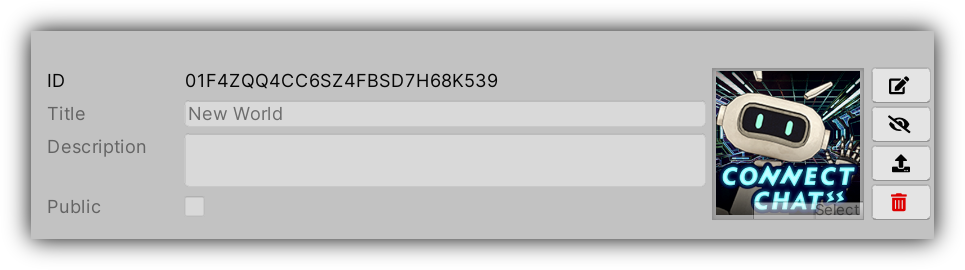
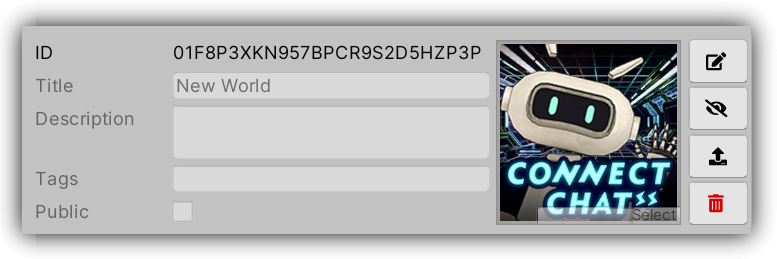
update docs

diff --git a/Documentation~/Japanese/04-creating-a-world.md b/Documentation~/Japanese/04-creating-a-world.md
@@ -1,0 +1,98 @@
+# はじめてのワールド作成
+
+新しいワールドの作成は非常に簡単です：
+
+1. ワールドに使用したいコンテンツが入ったシーンを作成し、セットアップします。
+2. [DMM VR Connect](https://connect.vrlab.dmm.com) アカウントにログインします。
+3. ワールド一覧に新しいワールドを追加してください。
+4. シーンをアップロードします。
+5. ワールドをパブリッシュします。
+
+## ステップ1：シーンの作成とセットアップ
+
+新しいシーンを作成し、ワールドに使いたいコンテンツを配置してください。
+
+![シーンを作成とコンテンツの配置](../images/scene-create.png)
+
+次に、空白の「_GameObject_ and attach the _CC World_」コンポーネントを追加します。
+
+![CCワールドコンポーネントの追加](../images/scene-add-cc-world.png)
+
+空白の「_GameObjects_:」を追加することで、シーンにスポーンポイントを追加します。
+
+![スポーンポイントの追加](../images/scene-create-spawn-point.png)
+
+そして「_CC World_」のスポーンポイント一覧に追加してください。
+
+![CCワールドのスポーンポイント一覧への追加](../images/scene-add-spawn-point.png)
+
+＊シーンに対応していないUnityのコンポーネント・シェーダーがあるのでご注意ください。対応コンポーネント一覧は [こちら](05-supported-components.md#対応コンポーネント) 、対応シェーダー一覧は [こちら](05-supported-components.md#対応シェーダー) からご確認いただけます。
+
+## ステップ2：DMM VR Connectへのログイン
+
+1. 「_Connect Chat_」メニューよりコントロールパネルを開きます。
+
+    ![コントロールパネル](../images/control-panel-open.png)
+
+2. コントロールパネルのウィンドウが開いたら、「_Login_」ボタンを押してご利用の [DMM VR Connect](https://connect.vrlab.dmm.com) アカウントにログインしてください。
+
+    ![DMM VR Connectへのログイン](../images/control-panel-login.png)
+
+3. ログイン後、開いたブラウザウィンドウの「_Confirm_」ボタンを押してUnityに戻ってください。
+
+    ![デバイス承認](../images/device-confirmation.png)
+
+4. ログイン完了後、コントロールパネルにアップロードしたワールドの一覧が現れます。
+
+    ![空白のワールド一覧](../images/empty-world-list.png)
+
+コントロールパネルはワールド一覧に加え、ユーザーにとって有益な情報や操作がいくつかあります。
+
+![コントロールパネルの見方](../images/control-panel-anatomy.png)
+
+## ステップ3：新規ワールドの追加
+
+「+」ボタンを押す事によって新しいワールドを追加してください。するとワールド一覧が更新され、新規ワールドが一覧から見れるようになります。
+
+![ワールド追加](../images/world-entry.png)
+
+**ID:** ワールドの内部ID
+
+**Title:** ワールド選択画面に現れるワールドの名称
+
+**Description:** ワールドの説明文
+
+**Public:** ワールドが誰にでも利用できるか、あなた自身にしか使えないかの表記（プライベートに設定していても同じインスタンスに他のユーザーを招待することは可能です）
+
+右記の画像はワールドのサムネイルです。サムネイルは256 x 256のテクスチャで、ワールド選択画面にてワールドの名称と一緒に表示されます。
+
+画面の右端には四つのアイコンがあります:
+
+![](../images/world-edit-icon.png) **Edit:** ワールドの詳細を修正できるモードをオン・オフできます。
+
+![](../images/world-publish-icon.png) **Publish:** ワールドをパブリッシュし、ワールド選択画面から選べるようにします。
+
+![](../images/world-upload-icon.png) **Build & Upload:** 現在選択されているシーンでワールドのアセットバンドルをビルドし、アップロードします。
+
+![](../images/world-delete-icon.png) **Delete:** ワールドを削除します (一度削除したワールドは復元できません)。
+
+### ワールド詳細の修正
+
+「_Edit_」をクリックして詳細を修正したいワールドの「_edit mode_」をオンにしてください。
+
+このモードからワールドの名称と説明文の修正、サムネイルの変更、ビジビリティのオン・オフが行えます。
+
+![ワールド詳細の修正](../images/world-edit.png)
+
+カスタムサムネイルは256 x 256ピクセルで下記の設定でインポートしてください。
+
+![サムネネイルのインポート設定](../images/world-thumbnail-import-settings.png)
+
+## ステップ4：アップロード
+
+ワールドのビルドとアップロードを行うには、ビルドボタンをクリックしてください。アップロードが完了次第、ダイアログが出現します。
+アップロードがうまくいかない場合（シーンに非対応コンポーネントを利用していた、等）。コンソールのエラーメッセージを確認してください。
+
+## ステップ5：ワールドのパブリッシュ
+
+ワールド詳細の設定が終わり、シーンのアップロードが完了すれば、あとはパブリッシュボタンを押す事によってあなたのワールドをConnect Chatで公開できます。

diff --git a/Documentation~/English/04-creating-a-world.md b/Documentation~/English/04-creating-a-world.md
@@ -12,19 +12,19 @@ Creating a new world is a simple process:
 
 Create a new scene and populate it with the content of your world.
 
-![Create and populate your scene.](images/scene-create.png)
+![Create and populate your scene.](../images/scene-create.png)
 
 When you are done, add an empty _GameObject_ and attach the _CC World_ component to it.
 
-![Add the CC World component.](images/scene-add-cc-world.png)
+![Add the CC World component.](../images/scene-add-cc-world.png)
 
 Add spawn points to the scene by creating empty _GameObjects_:
 
-![Create a spawn point.](images/scene-create-spawn-point.png)
+![Create a spawn point.](../images/scene-create-spawn-point.png)
 
 and add them to the _CC World_'s spawn point list.
 
-![Add the spawn point to CC World.](images/scene-add-spawn-point.png)
+![Add the spawn point to CC World.](../images/scene-add-spawn-point.png)
 
 :warning:  Not all Unity components or shaders are usable in the scene: see [here](05-supported-components.md#allowed-components) for the list of allowed components, and [here](05-supported-components.md#allowed-shaders) for the list of allowed shaders.
 
@@ -32,36 +32,43 @@ and add them to the _CC World_'s spawn point list.
 
 1. Open the control panel using the _Connect Chat_ menu.
 
-    ![Open the Control Panel](images/control-panel-open.png)
+    ![Open the Control Panel](../images/control-panel-open.png)
 
-2. Once the control panel window appears, press the _Login_ button to login into your [VR Connect] (https://connect.vrlab.dmm.com) account.
+2. The first time you open the control panel, the terms of services will be shown.
+   Using the control panel requires accepting the terms of service.
 
-    ![Login into Connect](images/control-panel-login.png)
+    ![ToS](../images/tos.png)
 
-3. Press the _Confirm_ button in the browser window that opened and return to Unity.
+3. Once the control panel window appears, press the _Login_ button to login into your [VR Connect](https://connect.vrlab.dmm.com) account.
 
-    ![Device Confirmation](images/device-confirmation.png)
+    ![Login into Connect](../images/control-panel-login.png)
 
-4. Once logged in the control panel will show the list of world you have uploaded.
+4. Press the _Confirm_ button in the browser window that opened and return to Unity.
 
-    ![Empty World List](images/empty-world-list.png)
+    ![Device Confirmation](../images/device-confirmation.png)
+
+5. Once logged in the control panel will show the list of world you have uploaded.
+
+    ![Empty World List](../images/empty-world-list.png)
 
 In addition to the world list, the control panel windows show the user information and
 has a few useful controls:
 
-![Control Panel Anatomy](images/control-panel-anatomy.png)
+![Control Panel Anatomy](../images/control-panel-anatomy.png)
 
 ## Step 3 - Adding a New World
 
 Click the `+` button to create a new world; the world list will update and a new world should be added to your list:
 
-![World Entry](images/world-entry.png)
+![World Entry](../images/world-entry.png)
 
 **ID:** The internal id of the world.
 
-**Title:** The name of the world and what is shown in the world selections screen.
+**Title:** The name of the world and what is shown in the world selections screen. Titles must be composed of a maximum of 16 letters or digits.
 
 **Description:** One or two short sentences describing your world.
+
+**Tags:** A list of tags describing your world. A maximum of 8 tags are allowed, each tag composed of a maximum of 16 letters or digits.
 
 **Public:** Shows if the world is usable by everyone or only by you (you will still be able to invite people into one instance).
 
@@ -69,13 +76,13 @@ The image on the right is the world's thumbnail: a 256x256 texture that will be 
 
 On the far right there are four icons:
 
-![](images/world-edit-icon.png) **Edit:** Toggles the edit mode for the world details. 
+![](../images/world-edit-icon.png) **Edit:** Toggles the edit mode for the world details. 
 
-![](images/world-publish-icon.png) **Publish:** Publishes the world and make it available in the World Selection window. 
+![](../images/world-publish-icon.png) **Publish:** Publishes the world and make it available in the World Selection window. 
 
-![](images/world-upload-icon.png) **Build & Upload:** Builds the world asset bundle using the current active scene and uploads it.
+![](../images/world-upload-icon.png) **Build & Upload:** Builds the world asset bundle using the current active scene and uploads it.
 
-![](images/world-delete-icon.png) **Delete:** Deletes the world (this operation cannot be undone).
+![](../images/world-delete-icon.png) **Delete:** Deletes the world (this operation cannot be undone).
 
 ### Editing your World Details
 
@@ -83,11 +90,11 @@ Click the _Edit_ button and toggle the _edit mode_ for your world.
 
 You can now edit the title and description of your world, change its thumbnail, and toggle it's visibility flag.
 
-![Editing the world details.](images/world-edit.png)
+![Editing the world details.](../images/world-edit.png)
 
 Custom thumbnails must be 256 x 256 pixels and be imported with the following settings:
 
-![Thumnbail import settings.](images/world-thumbnail-import-settings.png)
+![Thumbnail import settings.](../images/world-thumbnail-import-settings.png)
 
 ## Step 4 - Uploading
 

diff --git a/Documentation~/Japanese/05-supported-components.md b/Documentation~/Japanese/05-supported-components.md
@@ -1,0 +1,120 @@
+# 対応コンポーネント・シェーダー
+
+## 対応コンポーネント
+
+ワールド作成の際、下記のコンポーネントがご利用いただけます:
+
+- UnityEngine.AI.NavMeshAgent
+- UnityEngine.AI.NavMeshObstacle
+- UnityEngine.AI.OffMeshLink
+- UnityEngine.Animator
+- UnityEngine.AudioChorusFilter
+- UnityEngine.AudioDistortionFilter
+- UnityEngine.AudioEchoFilter
+- UnityEngine.AudioHighPassFilter
+- UnityEngine.AudioLowPassFilter
+- UnityEngine.AudioReverbFilter
+- UnityEngine.AudioReverbZone
+- UnityEngine.AudioSource
+- UnityEngine.BillboardRenderer
+- UnityEngine.BoxCollider
+- UnityEngine.Camera
+- UnityEngine.Canvas
+- UnityEngine.CanvasGroup
+- UnityEngine.CanvasRenderer
+- UnityEngine.CapsuleCollider
+- UnityEngine.CharacterController
+- UnityEngine.Collider
+- UnityEngine.Grid
+- UnityEngine.GridLayout
+- UnityEngine.Light
+- UnityEngine.LightProbeGroup
+- UnityEngine.LightProbeProxyVolume
+- UnityEngine.LineRenderer
+- UnityEngine.LODGroup
+- UnityEngine.MeshCollider
+- UnityEngine.MeshFilter
+- UnityEngine.MeshRenderer
+- UnityEngine.OcclusionArea
+- UnityEngine.OcclusionPortal
+- UnityEngine.ParticleSystem
+- UnityEngine.ParticleSystemForceField
+- UnityEngine.ParticleSystemRenderer
+- UnityEngine.Projector
+- UnityEngine.RectTransform
+- UnityEngine.ReflectionProbe
+- UnityEngine.Renderer
+- UnityEngine.Rendering.SortingGroup
+- UnityEngine.Rigidbody
+- UnityEngine.SkinnedMeshRenderer
+- UnityEngine.SphereCollider
+- UnityEngine.SpringJoint
+- UnityEngine.SpriteMask
+- UnityEngine.SpriteRenderer
+- UnityEngine.Terrain
+- UnityEngine.TerrainCollider
+- UnityEngine.TextMesh
+- UnityEngine.Tilemaps.Tilemap
+- UnityEngine.Tilemaps.TilemapRenderer
+- UnityEngine.TrailRenderer
+- UnityEngine.Transform
+- UnityEngine.Tree
+- UnityEngine.UI.AspectRatioFitter
+- UnityEngine.UI.BaseMeshEffect
+- UnityEngine.UI.Button
+- UnityEngine.UI.CanvasScaler
+- UnityEngine.UI.ContentSizeFitter
+- UnityEngine.UI.Dropdown
+- UnityEngine.UI.Graphic
+- UnityEngine.UI.GraphicRaycaster
+- UnityEngine.UI.GridLayoutGroup
+- UnityEngine.UI.HorizontalLayoutGroup
+- UnityEngine.UI.HorizontalOrVerticalLayoutGroup
+- UnityEngine.UI.Image
+- UnityEngine.UI.InputField
+- UnityEngine.UI.LayoutElement
+- UnityEngine.UI.LayoutGroup
+- UnityEngine.UI.Mask
+- UnityEngine.UI.MaskableGraphic
+- UnityEngine.UI.Outline
+- UnityEngine.UI.PositionAsUV1
+- UnityEngine.UI.RawImage
+- UnityEngine.UI.RectMask2D
+- UnityEngine.UI.Scrollbar
+- UnityEngine.UI.ScrollRect
+- UnityEngine.UI.Selectable
+- UnityEngine.UI.Shadow
+- UnityEngine.UI.Slider
+- UnityEngine.UI.Text
+- UnityEngine.UI.Toggle
+- UnityEngine.UI.ToggleGroup
+- UnityEngine.UI.VerticalLayoutGroup
+- UnityEngine.WheelCollider
+- UnityEngine.WindZone
+
+＊上記のリストにないコンポーネントを使用した場合、ワールドのアップロード時にエラーが起きます。
+
+## 対応シェーダー
+
+ワールド作成の際、下記のシェーダーがご利用いただけます:
+
+- Mobile/Bumped Diffuse
+- Mobile/Bumped Specular
+- Mobile/Diffuse
+- Mobile/Particles/Additive
+- Mobile/Particles/Alpha Blended
+- Mobile/Particles/Multiply
+- Mobile/Particles/VertexLit Blended
+- Mobile/Skybox
+- Mobile/Unlit (Lightmap対応)
+- Mobile/VertexLit
+- Mobile/VertexLit (Directional Lightsのみ対応)
+- Standard
+- Standard (Specular setup)
+- UI/Default
+- Unlit/Color
+- Unlit/Texture
+- Unlit/Transparent
+- Unlit/Transparent Cutout
+
+＊上記のリストにないシェーダーを使用した場合、ワールドのアップロード時にエラーが起きます。

diff --git a/Documentation~/Japanese/03-setting-up-the-sdk.md b/Documentation~/Japanese/03-setting-up-the-sdk.md
@@ -1,0 +1,19 @@
+# SDKのセットアップ
+
+CCSDKのUnity Package ManagerパッケージはGithubよりダウンロードできます。
+
+SDKの利用にはGitが必要となるので、 [こちらから](http://git-scm.com/)ダウンロードしてください。
+
+SDKをインストールするには、 `manifest.json`ファイルに次の行を追加します。
+
+    "com.dmm.vrlab.ccsdk": "https://github.com/dmm-com/vrlab-ccsdk.git#v1.0.0",
+
+## プロジェクトテンプレート
+
+ワールド作成のテンプレートとして利用できるプロジェクトを用意いたしましたので、ご活用ください。
+
+1. [こちらより](../files/vrlab-ccsdk-template.zip) zipファイルをダウンロードします。
+2. プロジェクトのための新しいフォルダを作成し、その中に解凍したファイルを入れてください。
+3. Unity Hubを起動し、プロジェクト一覧に新しく作成したフォルダを追加します。
+4. 新しいプロジェクトを開くと、UnityがSDKをそのプロジェクトにインポートします。
+5. あなただけのワールドを作りましょう！

diff --git a/Documentation~/English/03-setting-up-the-sdk.md b/Documentation~/English/03-setting-up-the-sdk.md
@@ -4,15 +4,15 @@ The SDK is distributed through GitHub as a Unity Package Manager package.
 
 Git is required and can be download by [clicking  here](http://git-scm.com/).
 
-To install the SDK add the following line to the dependenices in your `manifest.json` file:
+To install the SDK add the following line to the dependencies in your `manifest.json` file:
 
-    "com.dmm.vrlab.ccsdk": "https://github.com/dmm-com/vrlab-ccsdk.git#v0.1.6",
+    "com.dmm.vrlab.ccsdk": "https://github.com/dmm-com/vrlab-ccsdk.git#v1.0.0"
 
 ## Template Project
 
 We prepared a template project that can be used as a base for your new worlds.
 
-1. [Click here](files/vrlab-ccsdk-template.zip) to download it.
+1. [Click here](../files/vrlab-ccsdk-template.zip) to download it.
 2. Create a new folder for your project, extract the file in it.
 3. Launch Unity Hub and add the folder you created to the list of projects.
 4. Open the new project and Unity will import the SDK into your project.

diff --git a/Documentation~/Japanese/02-supported-unity-version.md b/Documentation~/Japanese/02-supported-unity-version.md
@@ -1,0 +1,15 @@
+# 対応Unityバージョン
+
+Connect ChatはUnity version 2019.4.23.を使用しております。
+
+新しくワールドを作成する場合は、必ず上記のバージョンをご利用ください。
+
+## Unityのセットアップ
+
+[こちらのリンクより](https://public-cdn.cloud.unity3d.com/hub/prod/UnityHubSetup.exe) Unity Hubをダウンロードし、インストールしてください。
+
+Unity Hubのインストール後、[こちらのリンクより](unityhub://2019.4.23f1/3f4e01f1a5ec) Connect Chatに対応するUnityのバージョンをインストールしてください。
+
+## 対応プラットフォーム
+
+Connect ChatはWindows版のUnityにのみ対応しております。

diff --git a/Documentation~/Japanese/01-overview.md b/Documentation~/Japanese/01-overview.md
@@ -1,0 +1,4 @@
+# 概要
+
+Connect Chat SDK（CCSDK）は、あなただけのワールドを作るためのツールです。
+
